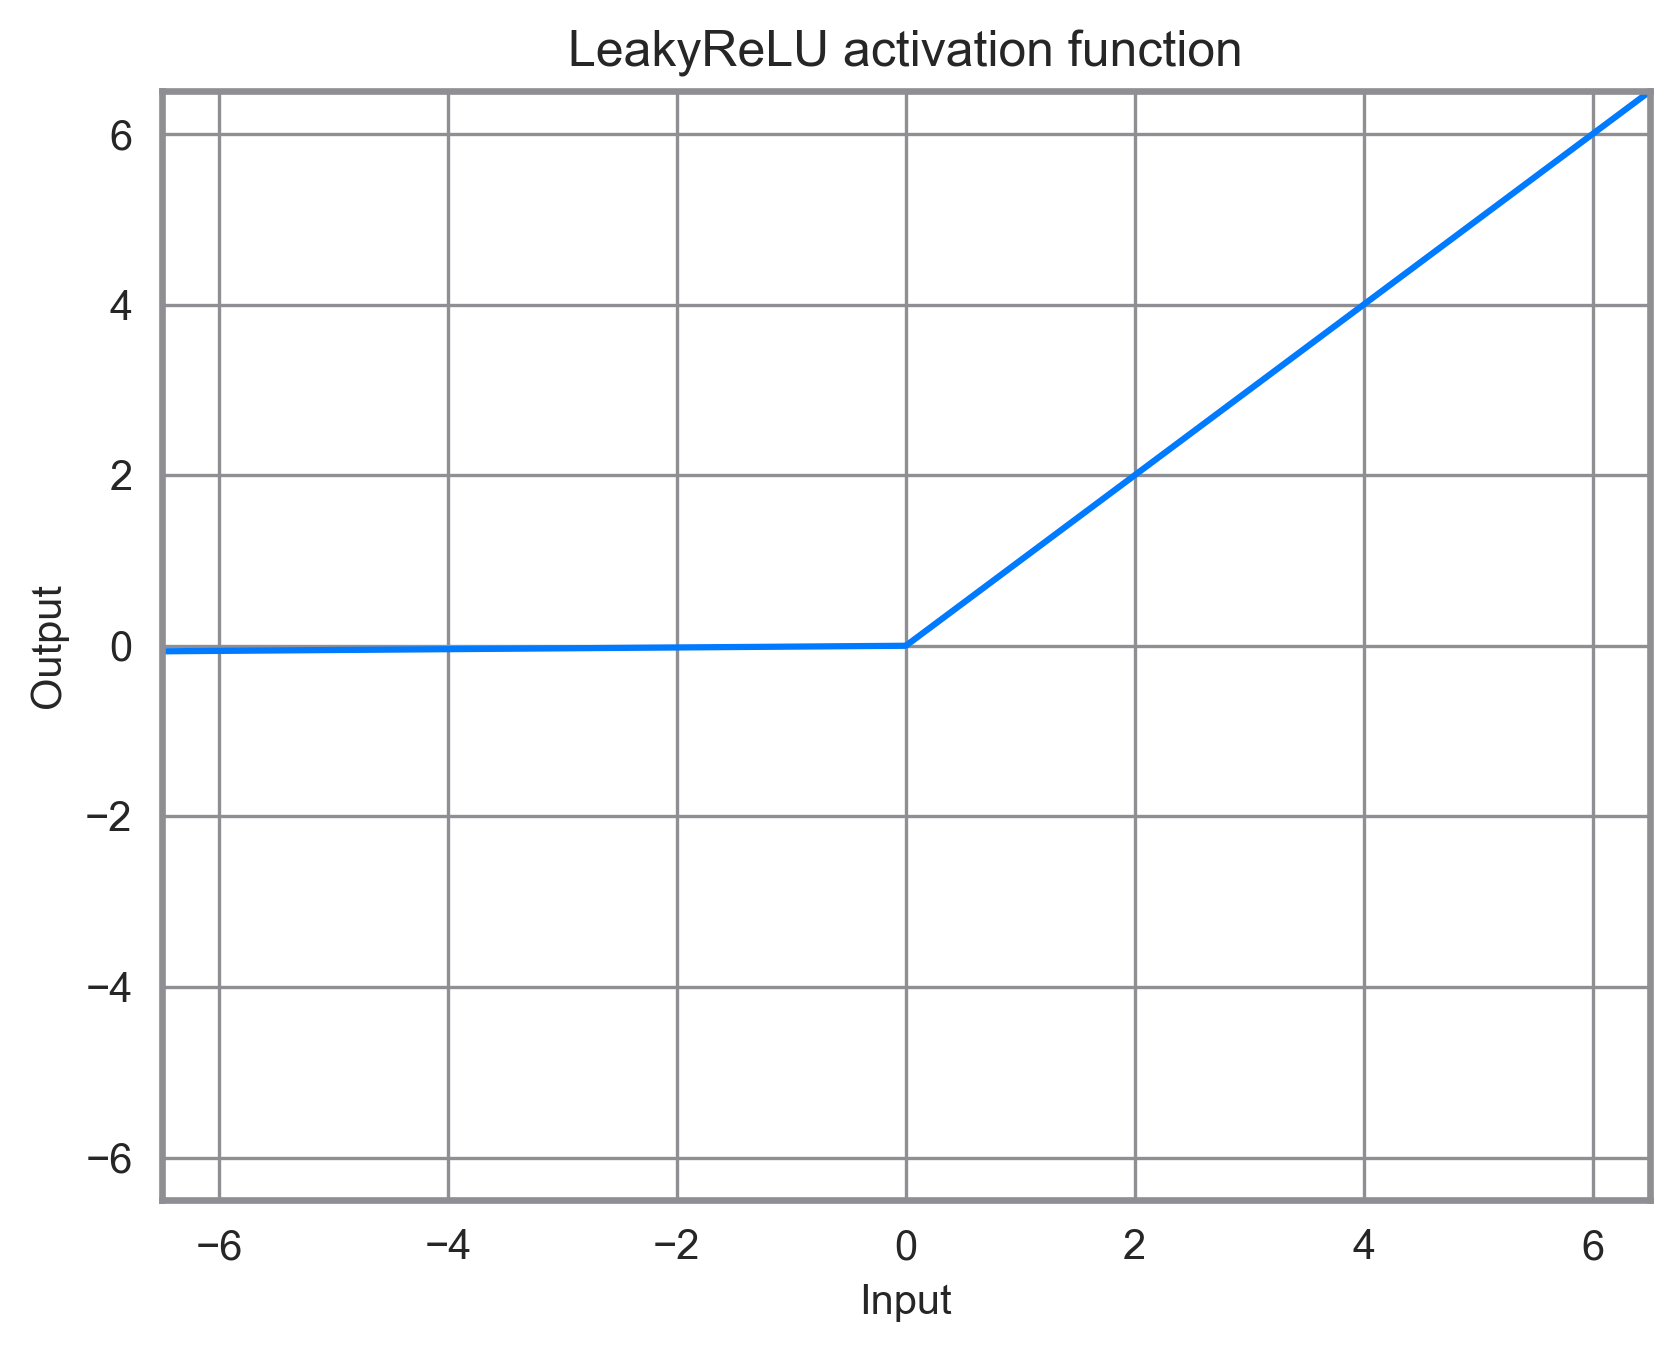
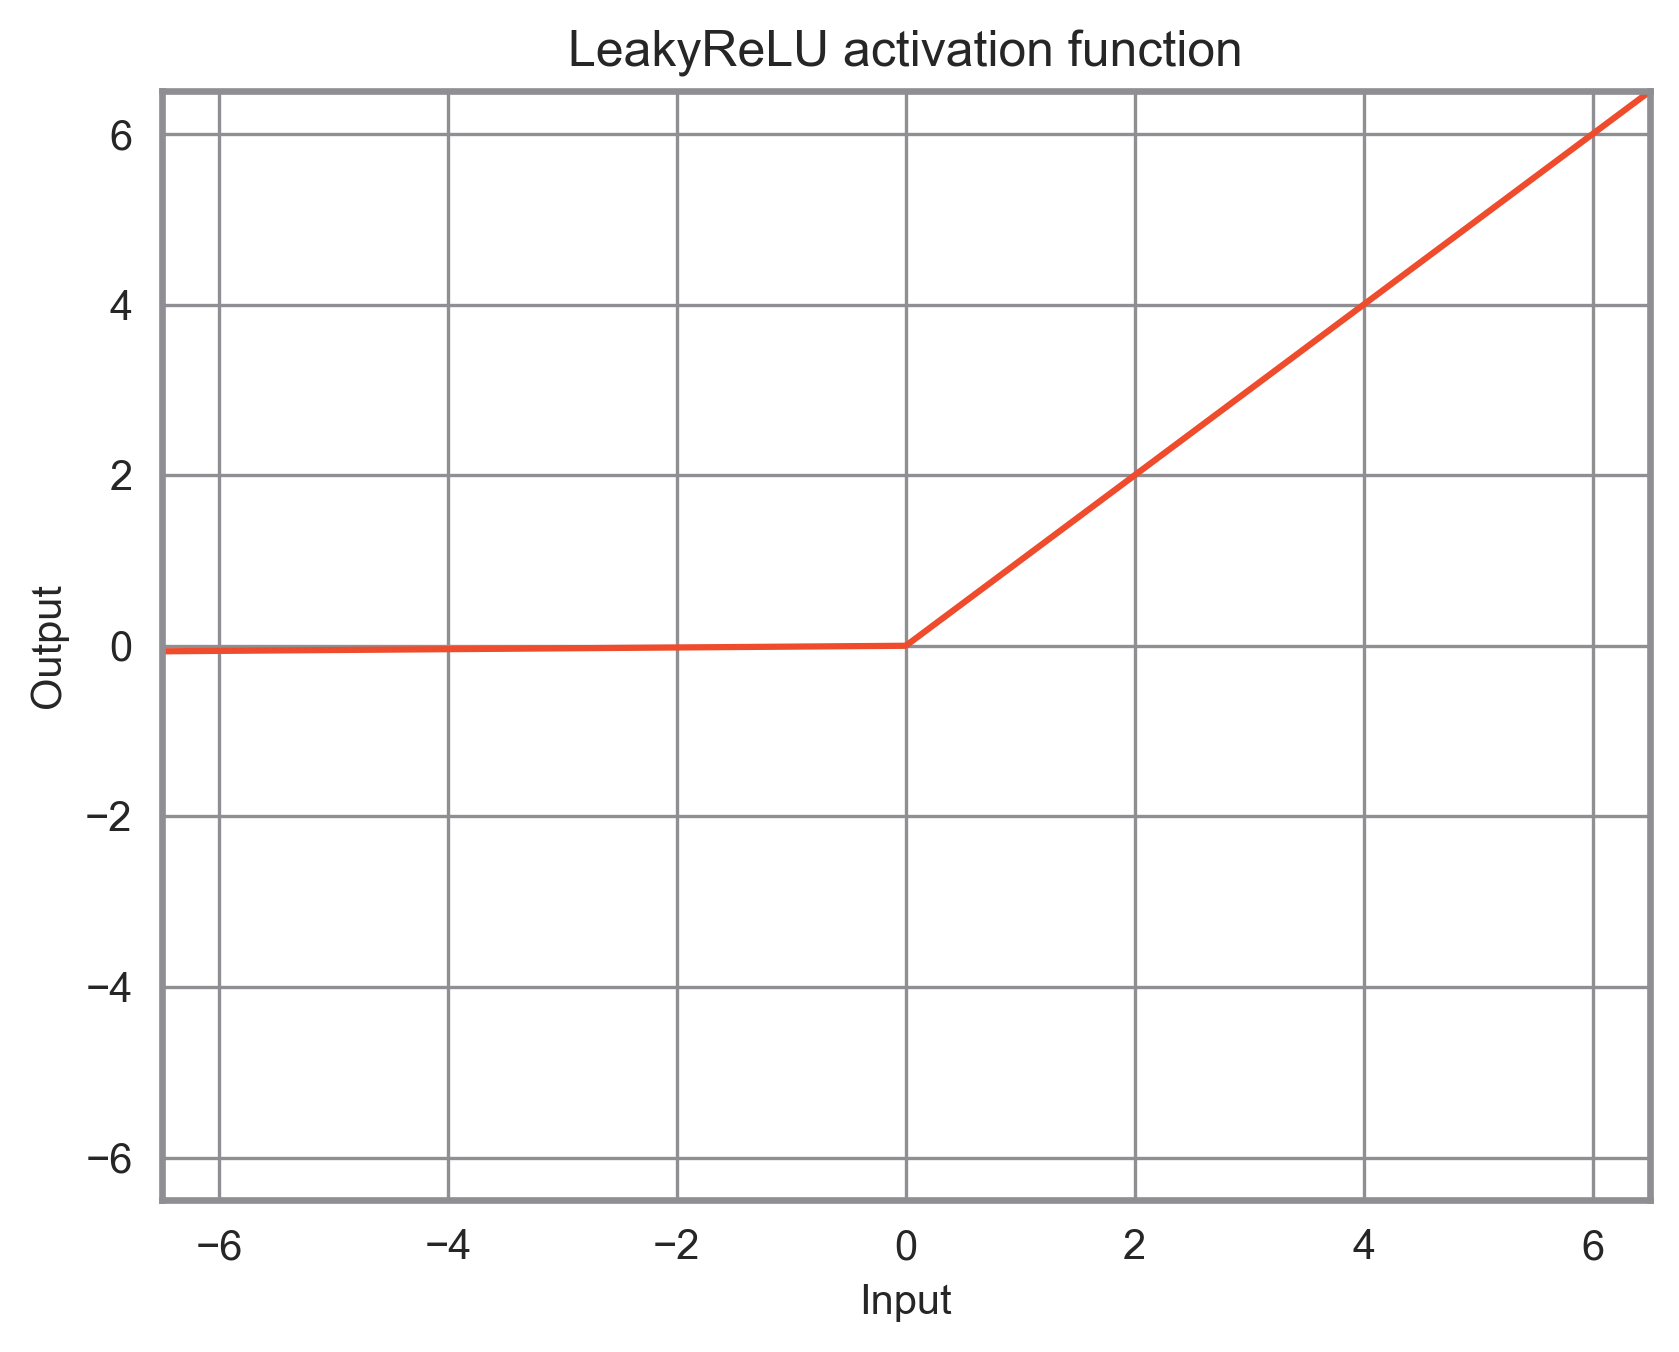
change color

diff --git a/make.py b/make.py
@@ -1,8 +1,8 @@
 import pathlib
 
-import torch
 import matplotlib.pyplot as plt
 import mpl_hig
+import torch
 
 
 def get_activations():
@@ -32,12 +32,13 @@ def get_activations():
 
 
 def draw(activation):
+    torchcolor = "#EE4C2C"
     name = activation.__class__.__name__
     x = torch.linspace(-6.5, 6.5, 1000)
     y = activation(x)
 
     plt.figure()
-    plt.plot(x, y)
+    plt.plot(x, y, color=torchcolor)
     plt.xlabel("Input")
     plt.ylabel("Output")
     plt.xlim(-6.5, 6.5)
